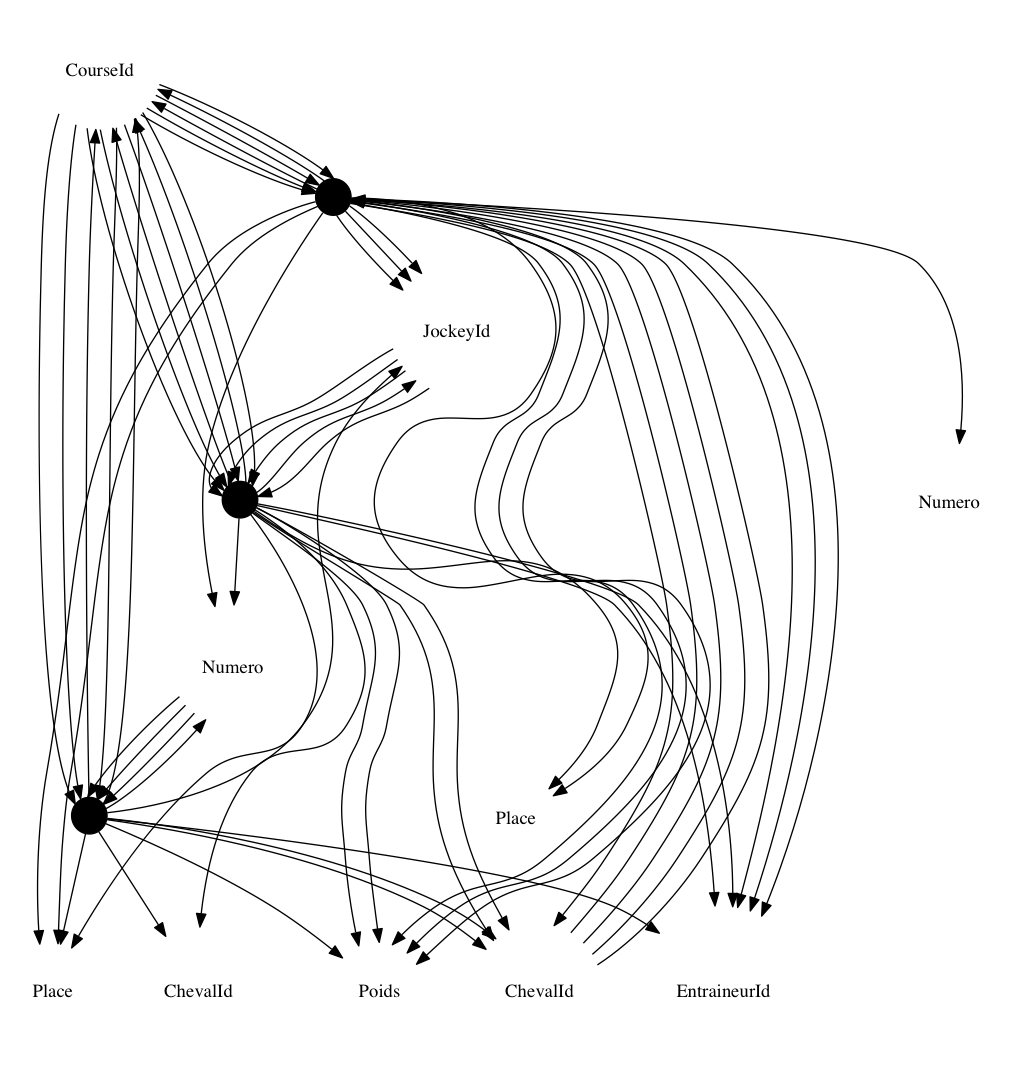
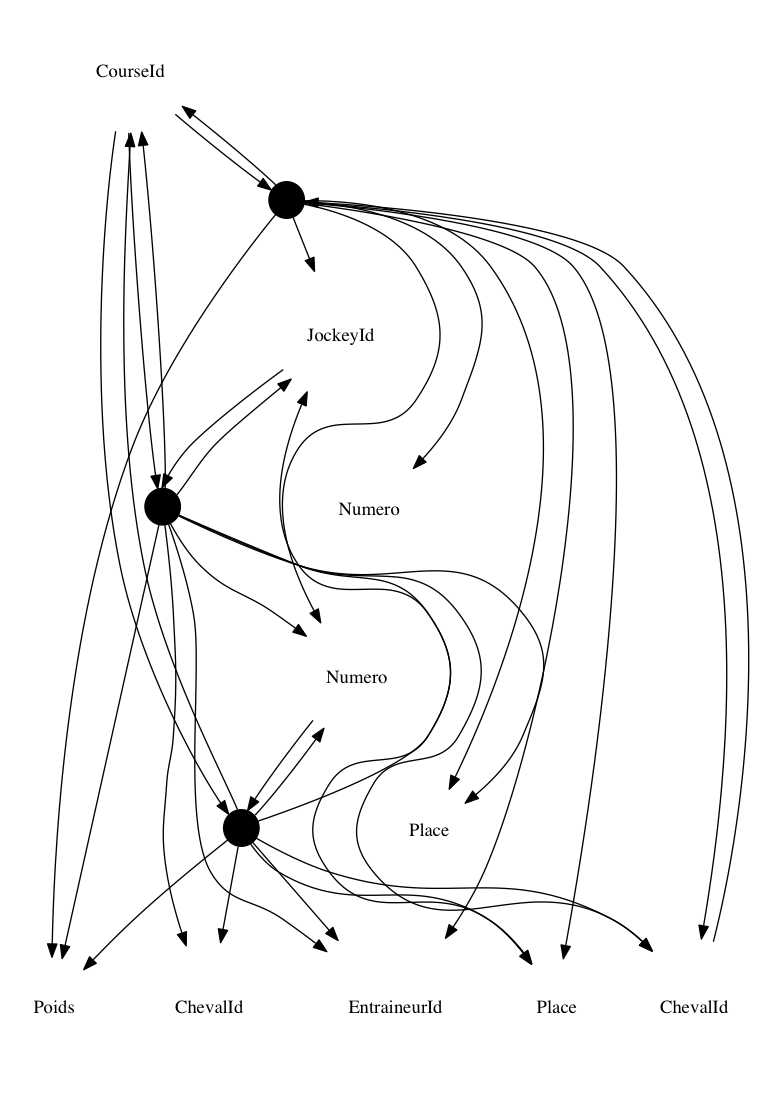
Edges are now unique

diff --git a/lib/database_theory/functionnal_depending_set.rb b/lib/database_theory/functionnal_depending_set.rb
@@ -1,4 +1,5 @@
 require 'graphviz'
+require 'set'
 
 module DatabaseTheory
 	class FunctionnalDependingSet
@@ -23,11 +24,16 @@ module DatabaseTheory
 			g.node[:shape] = "circle"
 			#g.node[:color] = "black"
 			g.node[:color] = "white"
+			g.node[:width] = "0.01"
+			g.node[:height] = "0.01"
 			
 			#g.edge[:color] = "black"
-			g.edge[:weight] = "0.5"
+
 			#g.edge[:style] = "filled"
 			#g.edge[:label] = ""
+
+
+			existing_edges = Set.new
 
 			@functionnal_dependencies.each do |fd|
 
@@ -44,8 +50,14 @@ module DatabaseTheory
 					# We connect the singleton determinant to its dependents
 					singleton_determinant_node = g.get_node(fd.determinant.first)
 
+
 					fd.dependent.each do |dependent|
-						g.add_edges(singleton_determinant_node, g.get_node(dependent) )
+						# Does this edge already exists ?
+						dependent_node = g.get_node(dependent)
+				 		edge_id ="#{singleton_determinant_node.__id__}=>#{dependent_node.__id__}"
+
+						g.add_edges(singleton_determinant_node, dependent_node ) if not existing_edges.include? edge_id
+						existing_edges << edge_id
 					end
 				else
 					#We create a union node which is the unification of each determinant 
@@ -57,12 +69,20 @@ module DatabaseTheory
 				 	
 				 	# We connect each dependent to the union node
 				 	fd.determinant.each do |determinant|
-						g.add_edges(g.get_node(determinant),union_node)
+				 		determinant_node = g.get_node(determinant)
+				 		edge_id ="#{determinant_node.__id__}=>#{union_node.__id__}"
+						g.add_edges(determinant_node,union_node) if not existing_edges.include? edge_id
+						existing_edges << edge_id
+						
 					end
+
 
 					# We connect the union node to each dependent
 				 	fd.dependent.each do |dependent|
-						g.add_edges(union_node, g.get_node(dependent) )
+				 		dependent_node = g.get_node(dependent)
+						edge_id ="#{union_node.__id__}=>#{dependent_node.__id__}"
+						g.add_edges(union_node, dependent_node) if not existing_edges.include? edge_id
+						existing_edges << edge_id
 					end
 
 				end

diff --git a/examples/sample04.rb b/examples/sample04.rb
@@ -1,0 +1,27 @@
+require "database_theory"
+include DatabaseTheory::Dsl
+
+set = DatabaseTheory::FunctionnalDependingSet.new 
+
+
+set << fd('N°Plat'=>'nomPlat,tpsPrepaPlatTheorique,tpsCuissonTheorique,N°Categorie')
+set << fd('N°Categorie'=>'libelleCategoriePlat')
+set << fd('N°Ingredient'=>'nomIngredient')
+set << fd('N°Plat,N°Ingredient'=>'QuantitéIngredientPlat')
+set << fd('N°Vin'=>'nomVin')
+set << fd('N°Vin,N°Plat'=>'')
+set << fd('N°Ordre,N°Menu'=>'N°Plat')
+set << fd('N°Menu'=>'prixMenu')
+set << fd('N°Menu,N°Commande'=>'nombreDeMenu')
+set << fd('N°Commande'=>'dateCommande,dateLivraison,N°Client')
+set << fd('N°Client'=>'telClient,nomClient,adresseClient,CPClient,faxClient')
+set << fd('N°Cuisinier'=>'nomCusiinier,dateEmbauche')
+set << fd('N°Atelier'=>'N°Cusisinier')
+set << fd('N°Cuisinier'=>'N°Atelier')
+set << fd('N°Atelier'=>'telAtelier')
+set << fd('N°Atelier,N°Plat,jour'=>'nbPlatPrepa,tpsPrepaReel,tpsCuissonReel')
+
+
+
+
+set.draw("examples/sample04")
